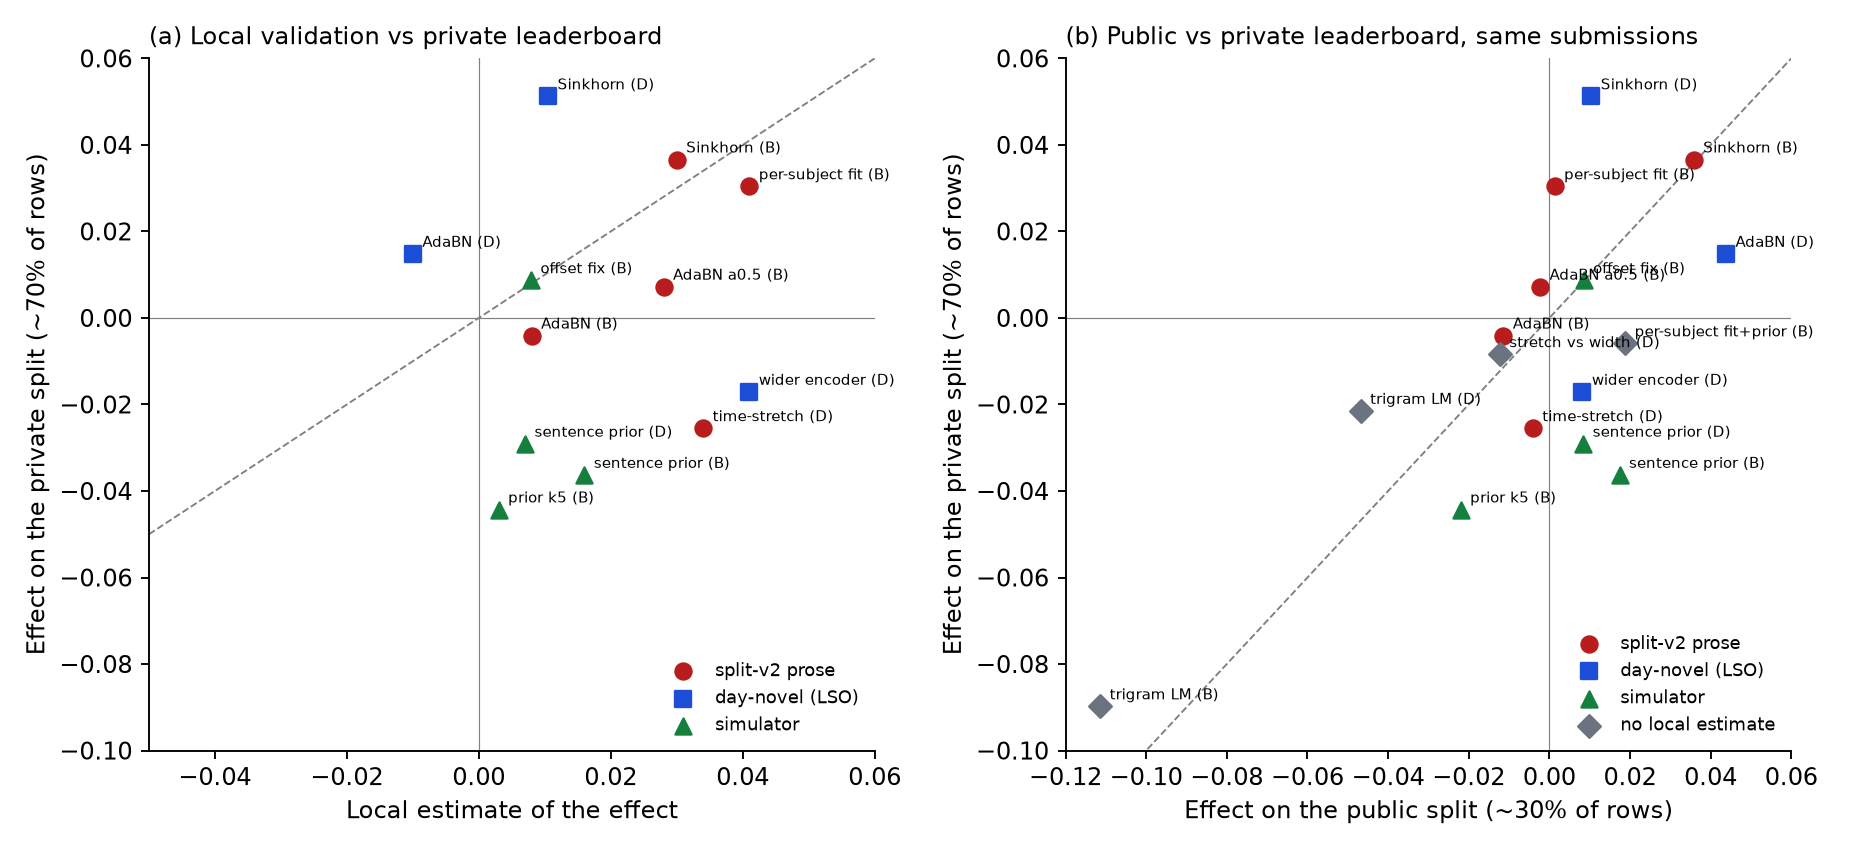
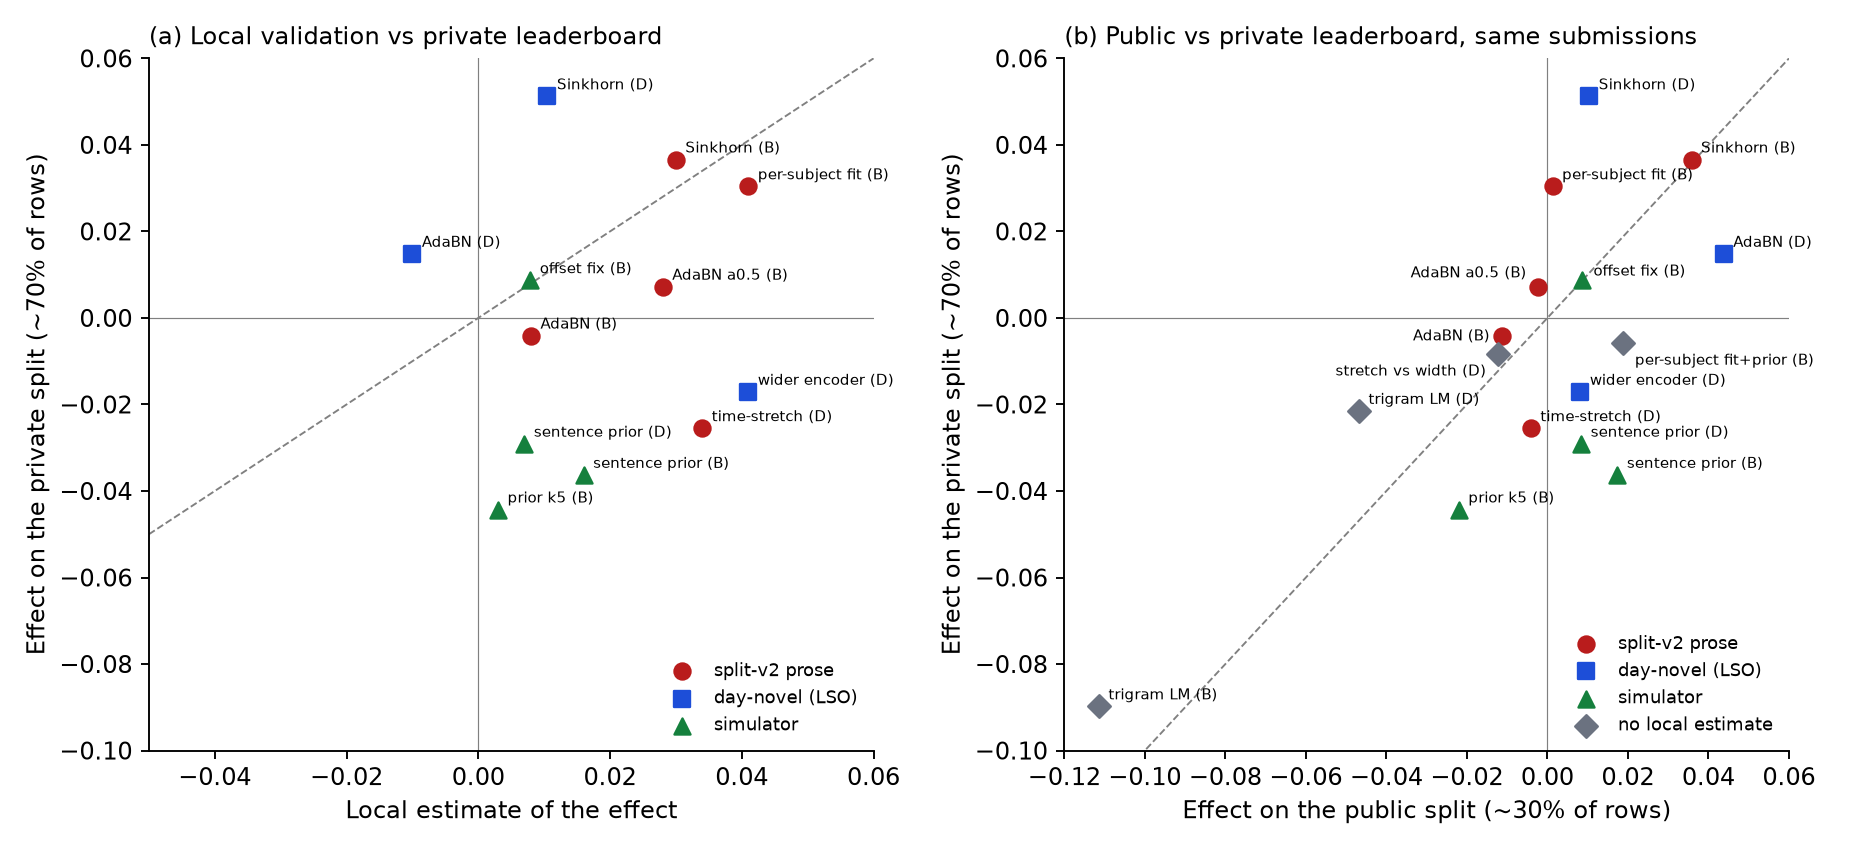
fix: separate overlapping labels in figure 2

diff --git a/docs/writeups/analyses/fig_public_vs_private.py b/docs/writeups/analyses/fig_public_vs_private.py
@@ -11,6 +11,10 @@ SHORT = {"Sinkhorn balancing T2": "Sinkhorn", "Sinkhorn balancing T3": "Sinkhorn
          "Self-learned sentence prior k20": "sentence prior", "Sentence prior k5 vs k20": "prior k5",
          "Sinkhorn offsets sentence-rows-only + gamma 0.85": "offset fix", "Prose/vocab trigram rerank": "trigram LM",
          "Per-subject fit + prior k20 vs FINAL-6c": "per-subject fit+prior", "Time-stretch vs width (same pipeline)": "stretch vs width"}
+# label offsets (points) where labels would collide in panel (b)
+OFF = {("public_delta", "AdaBN a0.5 (B)"): (-5, 4, "right"), ("public_delta", "AdaBN (B)"): (-5, -2, "right"),
+       ("public_delta", "stretch vs width (D)"): (-5, -9, "right"), ("public_delta", "offset fix (B)"): (5, 2, "left"),
+       ("public_delta", "per-subject fit+prior (B)"): (5, -9, "left")}
 fig, axes = plt.subplots(1, 2, figsize=(11, 5.0))
 for ax, (xcol, xlab, sub) in zip(axes, [("local_delta", "Local estimate of the effect", d[d.instrument != "none"]),
                                          ("public_delta", "Effect on the public split (~30% of rows)", d)]):
@@ -20,8 +24,8 @@ for ax, (xcol, xlab, sub) in zip(axes, [("local_delta", "Local estimate of the e
         s = sub[sub.instrument == inst]
         if len(s): ax.scatter(s[xcol], s.private_delta, marker=m, color=c, s=46, label=inst if inst != "none" else "no local estimate", zorder=3)
     for _, r in sub.iterrows():
-        ax.annotate(f"{SHORT.get(r.intervention, r.intervention)} ({r.track[0]})", (r[xcol], r.private_delta), fontsize=6.5,
-                    xytext=(4, 3), textcoords="offset points")
+        lab = f"{SHORT.get(r.intervention, r.intervention)} ({r.track[0]})"; dx, dy, ha = OFF.get((xcol, lab), (4, 3, "left"))
+        ax.annotate(lab, (r[xcol], r.private_delta), fontsize=6.5, xytext=(dx, dy), textcoords="offset points", ha=ha)
     ax.set_xlim(lo, hi); ax.set_ylim(-0.10, 0.06); ax.set_xlabel(xlab); ax.set_ylabel("Effect on the private split (~70% of rows)")
     ax.spines[["top", "right"]].set_visible(False); ax.legend(frameon=False, fontsize=7.5, loc="lower right")
 axes[0].set_title("(a) Local validation vs private leaderboard", loc="left", fontsize=10)
